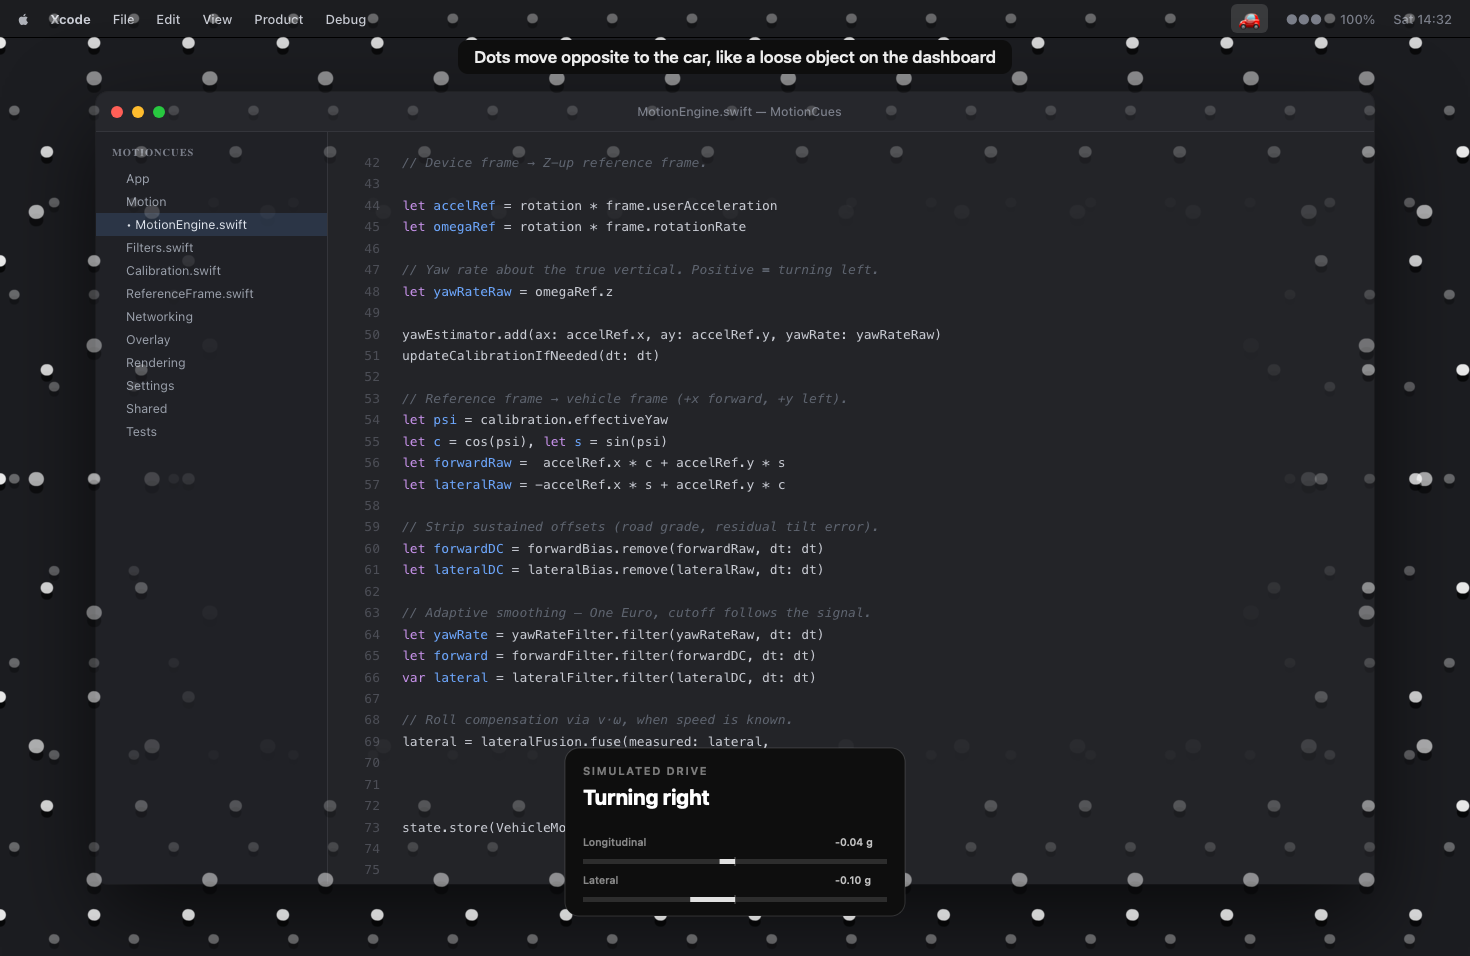
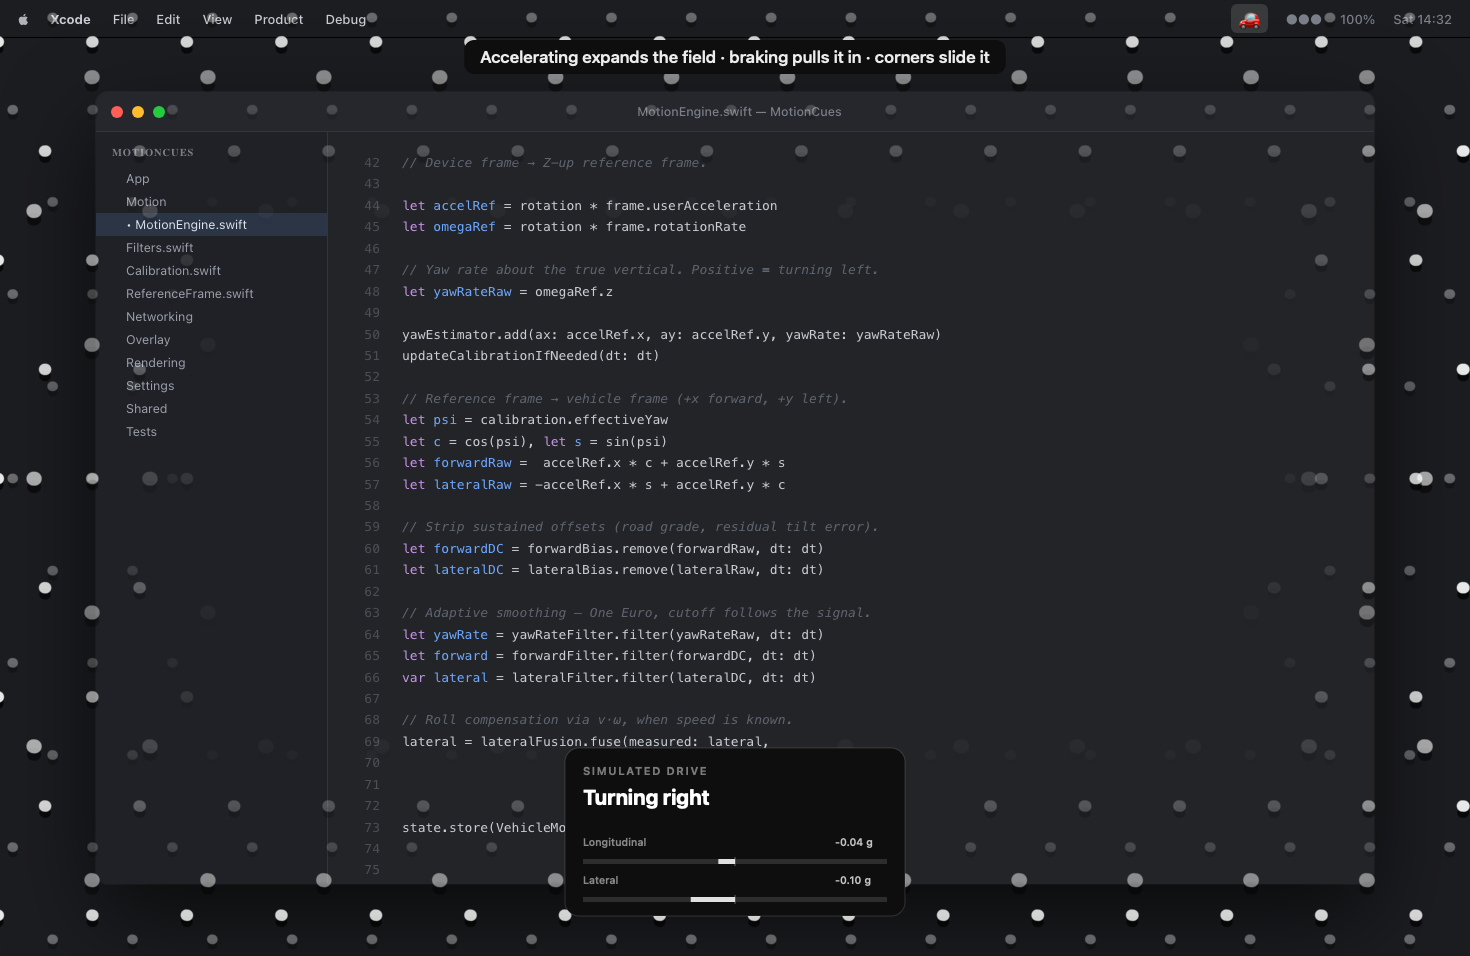
docs: regenerate the demo for the particle field
The caption still described dots translating, which was true of the model two
revisions ago. What the field actually does now is expand under acceleration
and contract under braking, so it says that.

Changed region(s): [[0.3061, 0.0303, 0.6735, 0.091], [0.0, 0.4854, 0.0306, 0.5157]]

diff --git a/Tools/DemoRenderer/main.swift b/Tools/DemoRenderer/main.swift
@@ -141,7 +141,7 @@ for frameIndex in 0..<(warmupFrames + totalFrames) {
     ctx.saveGState()
     ctx.scaleBy(x: scale, y: scale)
     Annotations.drawPanel(motion: motion, in: ctx, canvas: pointSize)
-    Annotations.drawCaption("Dots move opposite to the car, like a loose object on the dashboard",
+    Annotations.drawCaption("Accelerating expands the field · braking pulls it in · corners slide it",
                             in: ctx, canvas: pointSize)
     ctx.restoreGState()
 
